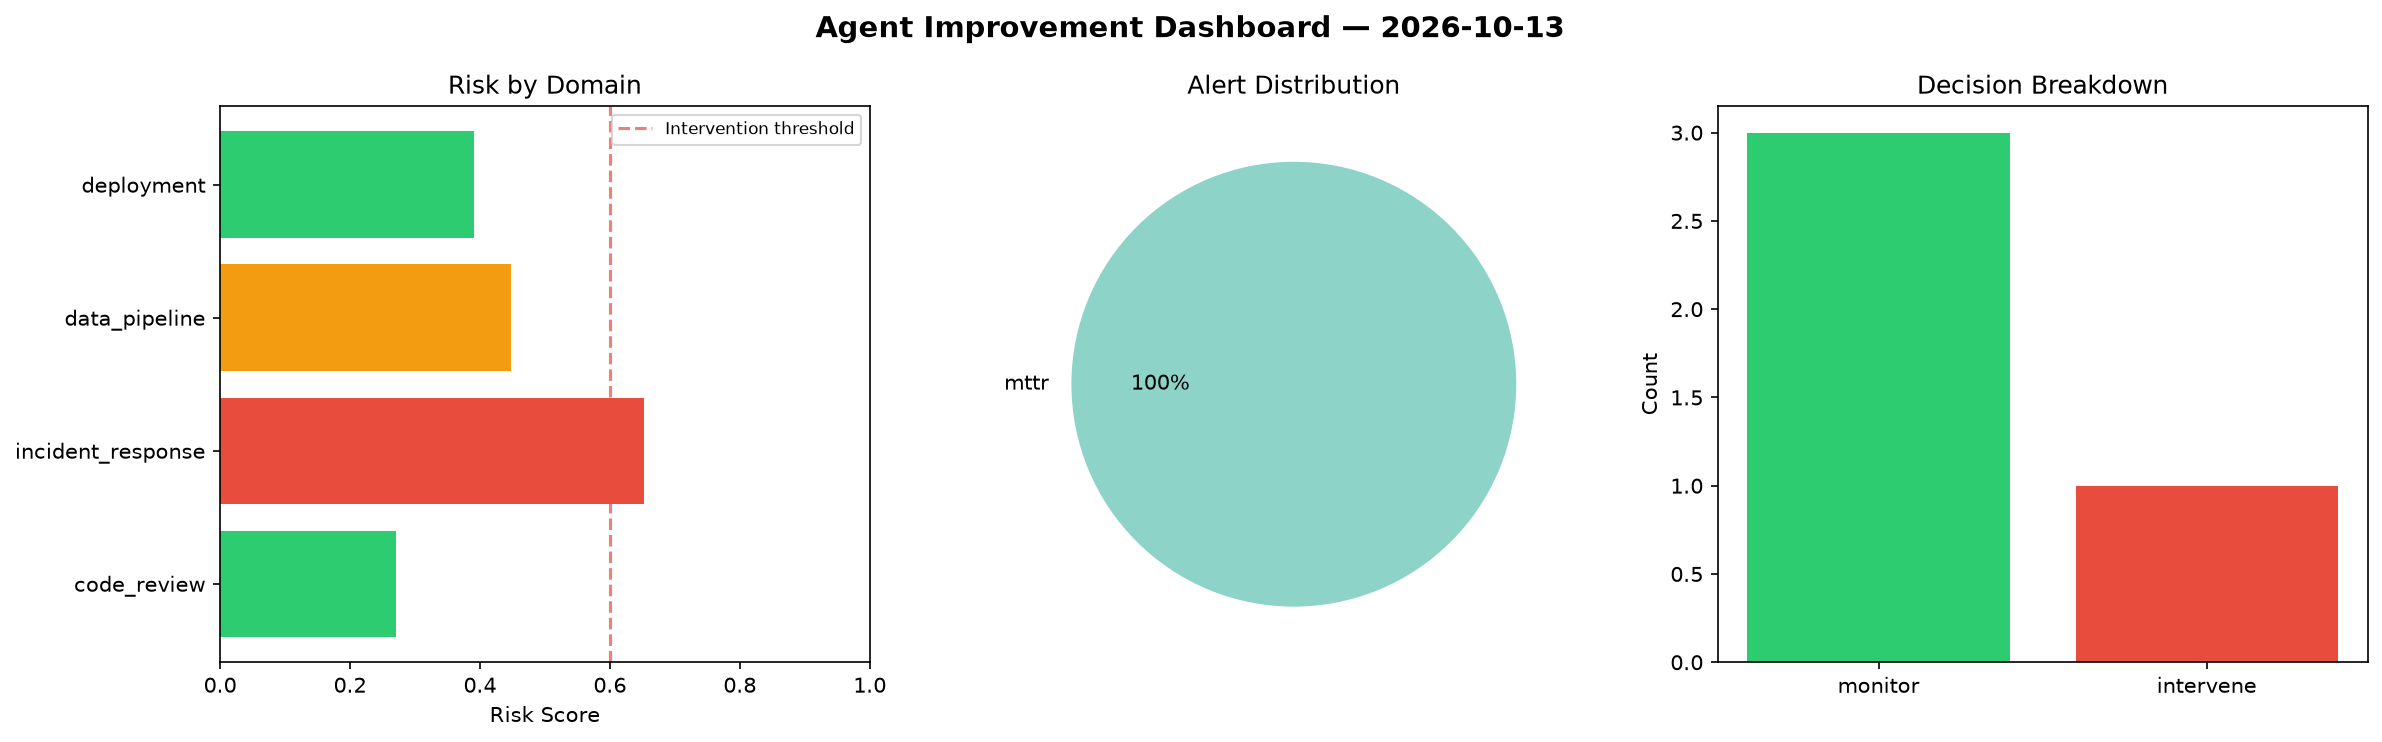
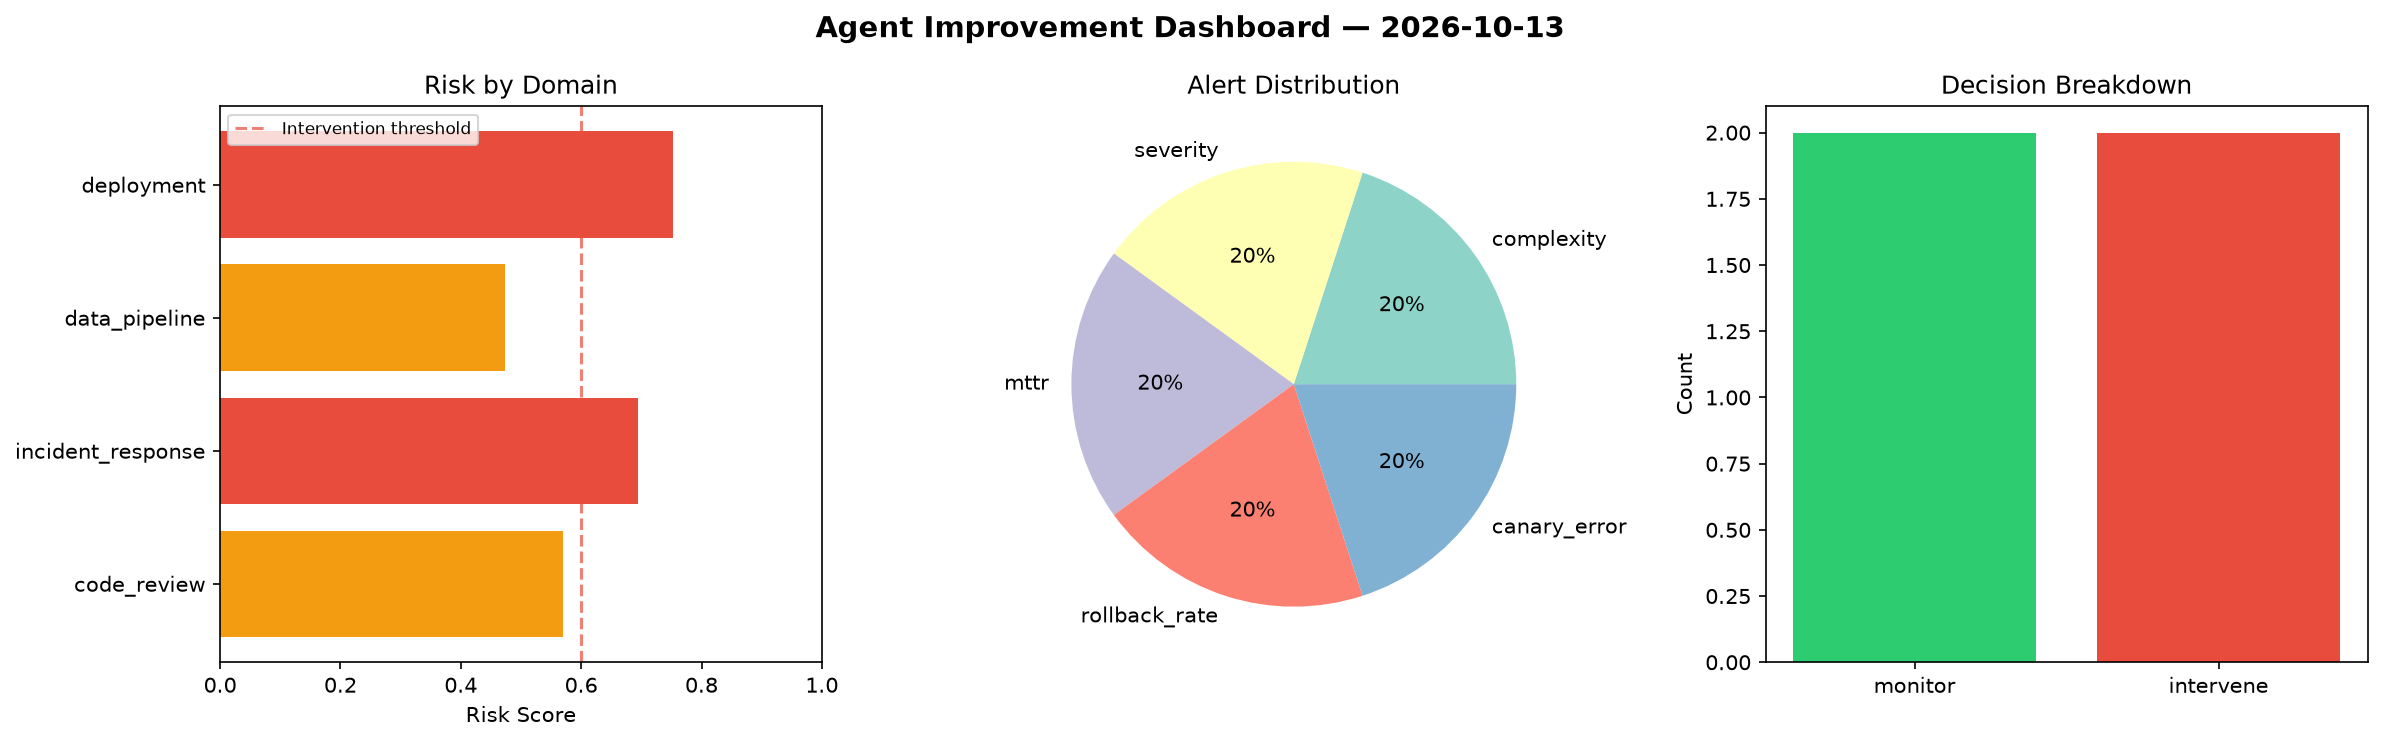
agent-improvement: daily cycle 2026-10-13T20:15

diff --git a/logs/2026-10-13.md b/logs/2026-10-13.md
@@ -1,6 +1,6 @@
 # Agent Improvement Report — 2026-10-13
 
-**Cycle ID:** `36dde399` | **Avg Risk:** 0.4408 | **Interventions:** 1/4
+**Cycle ID:** `a6eaf33e` | **Avg Risk:** 0.6226 | **Interventions:** 2/4
 
 ![Dashboard](2026-10-13_dashboard.png)
 
@@ -10,18 +10,18 @@
 
 | Domain | Risk Score | Decision | Alerts |
 |--------|-----------|----------|--------|
-| code_review | 0.2713 | monitor | none |
-| incident_response | 0.653 | intervene | mttr |
-| data_pipeline | 0.4484 | monitor | none |
-| deployment | 0.3905 | monitor | none |
+| code_review | 0.5696 | monitor | complexity |
+| incident_response | 0.6946 | intervene | severity, mttr |
+| data_pipeline | 0.4734 | monitor | none |
+| deployment | 0.7527 | intervene | rollback_rate, canary_error |
 
 ## Delta vs Yesterday
 
 | Domain | Today | Yesterday | Change |
 |--------|-------|-----------|--------|
-| code_review | 0.2713 | 0.1225 | 📈 121.5% |
-| incident_response | 0.653 | 0.6903 | 📉 -5.4% |
-| data_pipeline | 0.4484 | 0.2713 | 📈 65.3% |
-| deployment | 0.3905 | 0.5165 | 📉 -24.4% |
+| code_review | 0.5696 | 0.1225 | 📈 365.0% |
+| incident_response | 0.6946 | 0.6903 | 📈 0.6% |
+| data_pipeline | 0.4734 | 0.2713 | 📈 74.5% |
+| deployment | 0.7527 | 0.5165 | 📈 45.7% |
 
 **Refinement:** `{'adjustment': 'tighten_thresholds', 'trend': 'degrading', 'window': 4}`
